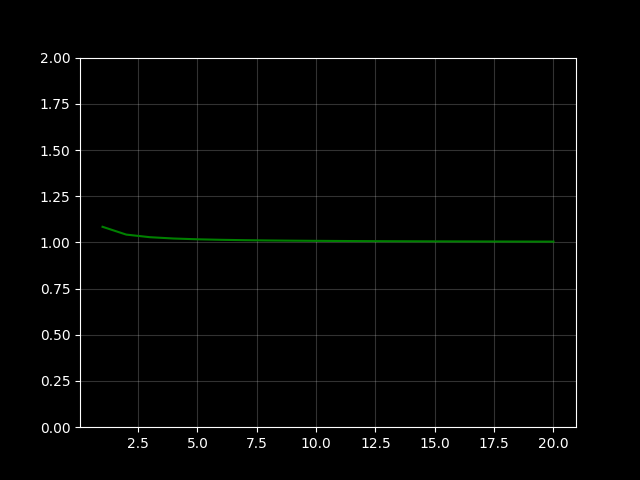
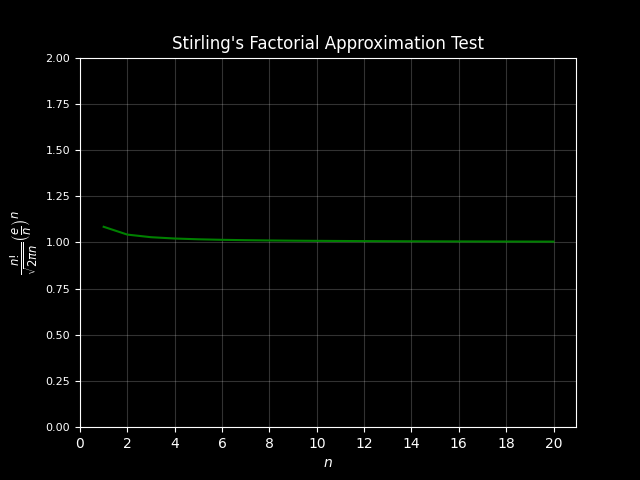
Deploying Prototype03

diff --git a/Assignment 02/B23395-Assignment02-IC252-Q3.py b/Assignment 02/B23395-Assignment02-IC252-Q3.py
@@ -1,7 +1,8 @@
 import numpy as np
 import matplotlib.pyplot as plt
+from matplotlib.gridspec import GridSpec
 
-n_values = np.arange(2,501)
+n_values = np.arange(2,50)
 prob_values=[]
 for n in range(len(n_values)):
     arr = np.arange(1,n_values[n]+1)
@@ -15,11 +16,20 @@ for n in range(len(n_values)):
     prob_values.append(rlt_frq/1000)
         
 # print(plt.style.available)
+plt.figure(figsize=(10,4))
 plt.style.use('ggplot')
+plt.subplot(1,2,1)
 plt.plot(n_values, prob_values)
 plt.title(r"Probabilities at various values of $n$")
 plt.xlabel(r'$n$')
 plt.ylabel(r"Probability of Winning")
 plt.grid(alpha=0.5)
+
+plt.subplot(1,2,2)
+plt.axis('off')
+plt.text(0,0.5,"As getting this is a random ")
+'''--> ... to be continued'''
+
+
 plt.savefig("Q3.png")
 plt.show()

diff --git a/Assignment 02/B23395-Assignment02-IC252-Q2.py b/Assignment 02/B23395-Assignment02-IC252-Q2.py
@@ -19,5 +19,10 @@ plt.style.use('dark_background')
 plt.plot(n_val, ratio_val, color='green', linewidth=1.5)
 plt.grid(alpha=0.2)
 plt.ylim(0,2)
+plt.xlabel(r"$n$")
+plt.ylabel(r"$\frac{n!}{\sqrt{2 \pi n}} \left(\frac{e}{n}\right)^n$", fontsize=12)
+plt.xticks(np.arange(0,21,2))
+plt.yticks(fontsize = 8)
+plt.title("Stirling's Factorial Approximation Test")
 plt.savefig("Q2.png")
 plt.show()

diff --git a/Assignment 02/B23395-Assignment02-IC252-Q1.py b/Assignment 02/B23395-Assignment02-IC252-Q1.py
@@ -15,5 +15,7 @@ for k in range(2,101):
 
 plt.style.use('ggplot')
 plt.plot(k_values, p_values)
+plt.xlabel("Number of people")
+plt.ylabel(r"Probability of same birthday of atleast one pair", fontsize=9)
 plt.savefig("Q1.png")
 plt.show()
